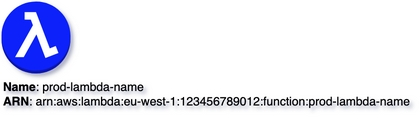
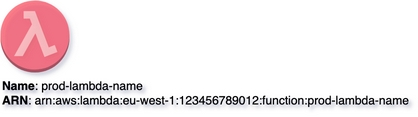
feat: styling for all parameters added

Changed region(s): [[0.0, 0.0, 0.1866, 0.641], [0.0, 0.7949, 0.9952, 0.9231], [0.0, 0.6667, 0.3421, 0.7949]]

diff --git a/multicloud_diagrams/__init__.py b/multicloud_diagrams/__init__.py
@@ -146,18 +146,18 @@ class MultiCloudDiagrams:
                 f'No such nodeType: {node_type} in the Library (using default fallback icon Info). Please contact maintainer to add it, or provide MergeRequest')
             return self.supported_vertex['fallback_vertex'].copy()
 
-    def add_snapshot(self, table_id='', table_name='', fill_color='', snapshot: str = '', width="300"):
+    def add_snapshot(self, table_id='', table_name='', style: dict = None, snapshot: str = '', width="300"):
         if not table_id:
             table_id = table_name
-        self.prepare_table(table_id=table_id, table_name=table_name, fill_color=fill_color, rows_count=1, width=width)
+        self.prepare_table(table_id=table_id, table_name=table_name, style=style, rows_count=1, width=width)
         self.prepare_row(1, snapshot, table_id, width)
 
-    def create_table(self, rows, table_id='', table_name='', fill_color='', width=300, layer_name: str = None, layer_id: str = None,
+    def create_table(self, rows, table_id='', table_name='', style: dict = None, width=300, layer_name: str = None, layer_id: str = None,
                      x: int = None, y: int = None):
         parent_id = str(self.get_layer_id(layer_name, layer_id))
         if not table_id:
             table_id = table_name
-        self.prepare_table(table_id=table_id, table_name=table_name, fill_color=fill_color, rows_count=len(rows),
+        self.prepare_table(table_id=table_id, table_name=table_name, style=style, rows_count=len(rows),
                            width=width, parent_id=parent_id, x=x, y=y)
 
         y = 0
@@ -165,20 +165,20 @@ class MultiCloudDiagrams:
             y = y + 30
             self.prepare_row(index, item, table_id, width, y=y)
 
-    def add_map(self, table_id='', table_name='', fill_color='', map: dict = None, width="300", layer_name: str = None, layer_id: str = None,
+    def add_map(self, table_id='', table_name='', style: dict = None, map: dict = None, width="300", layer_name: str = None, layer_id: str = None,
                 x: int = None, y: int = None):
         rows = []
         if map is not None:
             rows = [f'<b>{name}</b>: {value}' for name, value in map.items()]
-        self.create_table(rows=rows, table_id=table_id, table_name=table_name, fill_color=fill_color, width=width, layer_name=layer_name, layer_id=layer_id,
+        self.create_table(rows=rows, table_id=table_id, table_name=table_name, style=style, width=width, layer_name=layer_name, layer_id=layer_id,
                           x=x, y=y)
 
     # add_table
-    def add_list(self, table_id='', table_name='', fill_color='', rows=None, width=300, layer_name: str = None, layer_id: str = None,
+    def add_list(self, table_id='', table_name='', style: dict = None, rows=None, width=300, layer_name: str = None, layer_id: str = None,
                  x: int = None, y: int = None):
         if rows is None:
             rows = []
-        self.create_table(rows=rows, table_id=table_id, table_name=table_name, fill_color=fill_color, width=width, layer_name=layer_name, layer_id=layer_id,
+        self.create_table(rows=rows, table_id=table_id, table_name=table_name, style=style, width=width, layer_name=layer_name, layer_id=layer_id,
                           x=x, y=y)
 
     def prepare_row(self, index, snapshot, table_id='', width=300, y=30):
@@ -195,18 +195,22 @@ class MultiCloudDiagrams:
         # Position Vertex based on X,Y cords
         self.update_vertex_coords_width_height_from_prev_version(mx_geometry, f'vertex:{table_id}:row:{index}')
 
-    def prepare_table(self, table_id='', table_name='', fill_color='', rows_count=0, width=300, parent_id: str = "1",
+    def prepare_table(self, table_id='', table_name='', style: dict = None, rows_count=0, width=300, parent_id: str = "1",
                       x: int = None, y: int = None):
-        style = self.get_node_template('list')['style']
 
-        if fill_color:
-            style += f"fillColor={fill_color}"
+        if style is None:
+            style = {}
+
+        node_template = self.get_node_template('list')
+
+        # Customization
+        customize(node_template=node_template, style=style)
 
         mx_cell = Et.SubElement(self.root,
                                 'mxCell',
                                 id=f'vertex:{table_id}:list',
                                 value=f'<b>{table_name}</b>',
-                                style=style,
+                                style=f"{node_template['style']}",
                                 parent=parent_id,
                                 vertex="1")
 
@@ -243,8 +247,6 @@ class MultiCloudDiagrams:
 
             # Customization
             customize(node_template=node_template, style=style)
-            # for (key, value) in style.items():
-            #     node_template['style'] = update_style_by_key(style_str=node_template['style'], key=key, value=value)
 
             parent_id = str(self.get_layer_id(layer_name, layer_id))
             mx_cell = Et.SubElement(self.root,

diff --git a/tests/core/test_colors.py b/tests/core/test_colors.py
@@ -21,9 +21,9 @@ class TestCoreVertexInIsolation(TestRendering):
         # docs
         self.mcd = mcd
 
-    def test_color_blue(self):
+    def test_color_shadow_opacity(self):
         # docs
-        self.node_type = 'color_blue'
+        self.node_type = 'color_shadow_opacity'
 
         # given
         mcd = MultiCloudDiagrams()
@@ -32,28 +32,56 @@ class TestCoreVertexInIsolation(TestRendering):
         mcd.add_vertex(node_id="arn:aws:lambda:eu-west-1:123456789012:function:prod-lambda-name",
                        node_name='prod-lambda-name',
                        node_type='lambda_function',
-                       style={'fillColor': '#0000FF'})
+                       style={
+                           'fillColor': '#00FF00',
+                           'fillOpacity': '50',
+                           'shadow': '1'
+                       })
 
         # then
         # docs
         self.mcd = mcd
 
-    def test_color_table(self):
+    def test_color_gradient(self):
         # docs
-        self.node_type = 'color_table'
+        self.node_type = 'color_gradient'
 
         # given
         mcd = MultiCloudDiagrams()
 
         # when
-        rows = [
-            'IndexName',
-            'IndexSizeBytes',
-            'IndexStatus',
-        ]
-
-        mcd.add_list(table_name='LSI:users_to_model-users-idx', rows=rows, fill_color='#FF9933;')
+        mcd.add_vertex(node_id="arn:aws:lambda:eu-west-1:123456789012:function:prod-lambda-name",
+                       node_name='prod-lambda-name',
+                       node_type='lambda_function',
+                       style={
+                           'fillColor': '#FFFF33',
+                           'gradientColor': '#3333FF',
+                           'gradientDirection': 'north'
+                       })
 
         # then
         # docs
         self.mcd = mcd
+
+
+def test_color_table(self):
+    # docs
+    self.node_type = 'color_table'
+
+    # given
+    mcd = MultiCloudDiagrams()
+    rows = [
+        'IndexName',
+        'IndexSizeBytes',
+        'IndexStatus',
+    ]
+    style = {
+        'fillColor': '#FF9933',
+    }
+
+    # when
+    mcd.add_list(table_name='LSI:users_to_model-users-idx', rows=rows, style=style)
+
+    # then
+    # docs
+    self.mcd = mcd

diff --git a/docs/docs/core-components/vertices_edges.md b/docs/docs/core-components/vertices_edges.md
@@ -15,10 +15,9 @@ through programming API or from YAML-based files.
 ## Vertex
 
 ```python
-def add_vertex(self, 
-               node_id: str, node_name: str, metadata: dict = None,
-               node_type: str = '', layer_name: str = None, layer_id: str = None,
-               fill_color: str = None, x: int = None, y: int = None)
+def add_vertex(self, node_id: str, node_name: str, metadata: dict = None, 
+               node_type: str = '', layer_name: str = None, layer_id: str = None, 
+               style: dict = None, x: int = None, y: int = None)
 ```
 
 | Mandatory     |                                                                                                                                                                                                       |
@@ -27,14 +26,14 @@ def add_vertex(self,
 | **node_name** | any value (FQDN, URL, alpha-numeric value, etc.)                                                                                                                                                      |
 | **node_type** | there is a defined list of supported node_types for rendering (**dynamodb**, **lambda_function**, etc.), if node type is not supported, fallback will be used. Each node on documentation page has node_type. |
 
-| Optional       |                                                                                     |
-|:---------------|:------------------------------------------------------------------------------------|
-| **metadata**   | key/value pairs used to represent additional information                            |
-| **layer_name** | vertices can be added to specific layer, if not specified the default layer is used |
-| **layer_id**   | for programmatic access layers can be referenced also by ID                         |
-| **fill_color** | if specified changes default Vertex fill color                                      |
-| **x**          | positioning Vertex on palette                                                       |
-| **y**          | positioning Vertex on palette                                                       |
+| Optional       |                                                                                                                                                                  |
+|:---------------|:-----------------------------------------------------------------------------------------------------------------------------------------------------------------|
+| **metadata**   | key/value pairs used to represent additional information                                                                                                         |
+| **layer_name** | vertices can be added to specific layer, if not specified the default layer is used                                                                              |
+| **layer_id**   | for programmatic access layers can be referenced also by ID                                                                                                      |
+| **style**      | if specified changes default Vertex styling (color, fillColor, opacity, etc.) Check [Customization](/docs/core-components/colors.html) section for more details. |
+| **x**          | positioning Vertex on palette                                                                                                                                    |
+| **y**          | positioning Vertex on palette                                                                                                                                    |
 
 ### Code Snippet NO Metadata:
 

diff --git a/docs/docs/core-components/colors.md b/docs/docs/core-components/colors.md
@@ -8,86 +8,103 @@ date: 2023-08-16
 
 # Customization
 {: .d-inline-block }
+{: .no_toc }
 
-New (v0.3.12)
+New (v0.3.13)
 {: .label .label-green }
 
-## Style
+
+## Table of contents
+{: .no_toc .text-delta }
+
+1. TOC
+{:toc}
+
+---
+
+## Use Style Object to override any parameter
+
+When passing ``style`` parameter, we can customize the representation of particular Vertex. Here is the list of most widely used
+parameters of style.
 
 ```python
 style = {
-    'fillColor': '#FF0000'
+    'fillColor': '#FF0000',
+    'fillOpacity': '50',
+    'shadow': '1',
+    'gradientColor': '#FFFF33',
+    'gradientDirection': 'north'
 }
 ```
 
-## Code Snippet:
+{: .highlight }
+Each Node in this documentation has full list of its style parameters. You can check all styles at ``Advanced for Geeks`` section.
+
+## Changing FillColor to RED (node with Error or Alarm):
+
+### Code Snippet:
+{: .no_toc }
 
 ```python
 {% root_include_snippet ../tests/core/test_colors.py color_red%}
 ```
 
 ## Rendering:
+{: .no_toc }
 
 ![layers](output/jpg/color_red.jpg)
 
-### Full XML dump:
 
-```xml
-{% root_include docs/core-components/output/drawio/color_red.drawio%}
-```
+## Adding Opacity and Background Shadow:
 
-### drawio file:
-
-Download generated ``color_red.drawio``:
-
-[Download](output/drawio/color_red.drawio){: .btn .btn-purple }
-
-
-## Code Snippet:
+### Code Snippet:
+{: .no_toc }
 
 ```python
-{% root_include_snippet ../tests/core/test_colors.py color_blue%}
+{% root_include_snippet ../tests/core/test_colors.py color_shadow_opacity%}
 ```
 
 ## Rendering:
+{: .no_toc }
 
-![layers](output/jpg/color_blue.jpg)
+![layers](output/jpg/color_shadow_opacity.jpg)
 
-### Full XML dump:
+## Gradient Fill
 
-```xml
-{% root_include docs/core-components/output/drawio/color_blue.drawio%}
-```
+When specifying ``gradient fill`` it is mandatory to set 3 style params:
+- fillColor
+- gradientColor
+- gradientDirection
 
-### drawio file:
-
-Download generated ``color_blue.drawio``:
-
-[Download](output/drawio/color_blue.drawio){: .btn .btn-purple }
-
+``gradientDirection`` can have the following values:
+- north
+- south
+- west
+- east
+- radial
 
 ## Code Snippet:
+{: .no_toc }
+
+```python
+{% root_include_snippet ../tests/core/test_colors.py color_gradient%}
+```
+
+## Rendering:
+{: .no_toc }
+![layers](output/jpg/color_gradient.jpg)
+
+
+## Applying Colors to Table
+
+## Code Snippet:
+{: .no_toc }
 
 ```python
 {% root_include_snippet ../tests/core/test_colors.py color_table%}
 ```
 
-## Rendering:
+## Rendering
+{: .no_toc }
 
 ![layers](output/jpg/color_table.jpg)
-
-### Full XML dump:
-
-```xml
-{% root_include docs/core-components/output/drawio/color_table.drawio%}
-```
-
-### drawio file:
-
-Download generated ``color_table.drawio``:
-
-[Download](output/drawio/color_table.drawio){: .btn .btn-purple }
-
-
-
-

diff --git a/docs/docs/configuration.md b/docs/docs/configuration.md
@@ -48,7 +48,7 @@ Compatibility tests are included for latest LTS Python versions that have ``Secu
 | 3.8     | 14 Oct 2019 | 14 Oct 2024      | 3.8.17  |
 | 3.7     | 26 Jun 2018 | 27 Jun 2023      | 3.7.17  |
 
-{: .highlight }
+`{: .highlight }`
 >You can use ``multicloud-diagrams`` with ``Python`` versions ``<3.7`` that do not have official ``Security Support`` with your own verification.
 >
 >Since  ``27 Jun 2023`` Python ``3.7`` has no security support, ``multicloud-diagrams`` are still support this version (pipeline with full features compatibility check), however on next Python LTS releases

diff --git a/docs/docs/core-components/core-components.md b/docs/docs/core-components/core-components.md
@@ -8,6 +8,7 @@ date: 2023-08-07
 ---
 
 # Core Components
+{: .no_toc }
 
 To make it as easy as possible to write documentation in plain Markdown, most UI components are styled using default Markdown elements with few additional CSS classes needed.
 {: .fs-6 .fw-300 }
